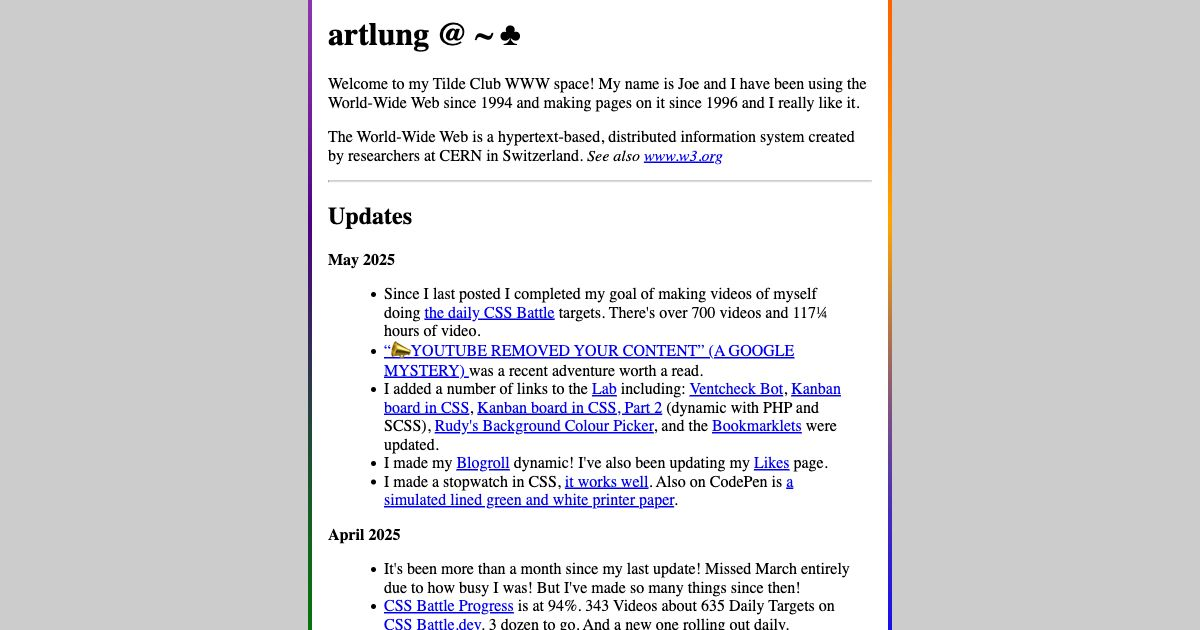
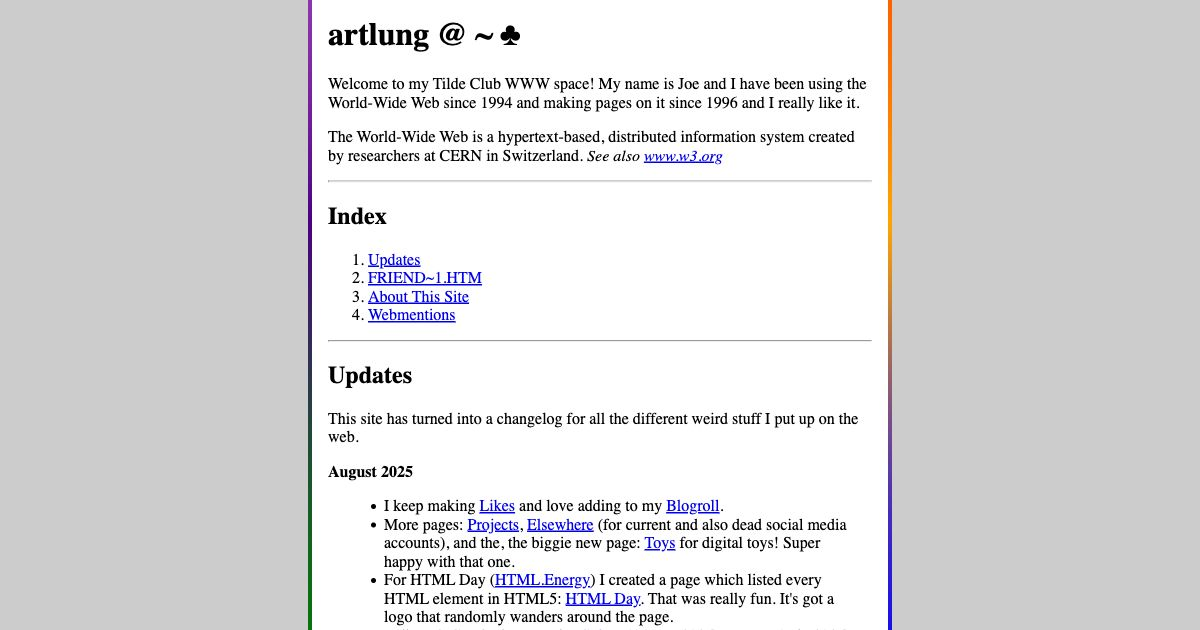
AUGUST CHANGES - new friends section and more updates

Changed region(s): [[0.2775, 0.3921, 0.7092, 1.0], [0.2775, 0.3317, 0.3392, 0.3619]]

diff --git a/public_html/tilde.css b/public_html/tilde.css
@@ -1,1 +1,1 @@
-html{height:100%}body{max-width:72ch;box-sizing:border-box;margin:0 auto;padding:2ch;background:linear-gradient(#fff, #fff) 50% 50%/72ch 200% repeat-y,conic-gradient(from var(--from), red, orange, blue, green, indigo, violet) 50% 50%/73ch 100vh no-repeat #ccc;background-attachment:fixed;min-height:100%;transition:background .5s ease-in-out;animation:swirl 6s infinite;--from: 45deg}body>p:last-child{padding:0 0 3ch 0}dt{font-weight:bold}dd{margin:1em}form{margin:0;display:grid;gap:1rem;padding:1rem;background:#ffffe0;border:2px solid #ff0;font-family:sans-serif}form *{margin:0;padding:0;display:block;width:100%;font-family:sans-serif;font-size:1rem}form input{padding:.5rem}@keyframes swirl{0%{--from: 0deg}50%{--from: 350deg}100%{--from: 0deg}}h2:has(+dl+form){border:3px double orange;background:bisque;padding:.1rem .5rem;line-height:1;color:darkred;font-family:sans-serif}dl:has(+form){display:grid;font-family:sans-serif;gap:.33rem;margin:0 0 1rem .75rem}dl:has(+form) dt{font-weight:normal;color:darkred}dl:has(+form) dd{margin:0 0 0 1rem;display:flex;gap:1rem;justify-content:start;align-items:center}dl:has(+form) dd img{opacity:.9;width:1.5rem;aspect-ratio:1;border-radius:50%}a:has(img[ismap]){display:block;width:min-content}a:has(img[ismap]) img{display:block;width:549px;height:60px}
+html{height:100%}body{max-width:72ch;box-sizing:border-box;margin:0 auto;padding:2ch;background:linear-gradient(#fff, #fff) 50% 50%/72ch 200% repeat-y,conic-gradient(from var(--from), red, orange, blue, green, indigo, violet) 50% 50%/73ch 100vh no-repeat #ccc;background-attachment:fixed;min-height:100%;transition:background .5s ease-in-out;animation:swirl 6s infinite;--from: 45deg}body>p:last-child{padding:0 0 3ch 0}dt{font-weight:bold}dd{margin:1em}form[method=post]{margin:0;display:grid;gap:1rem;padding:1rem;background:#ffffe0;border:2px solid #ff0;font-family:sans-serif}form[method=post] *{margin:0;padding:0;display:block;width:100%;font-family:sans-serif;font-size:1rem}form[method=post] input{padding:.5rem}form:has(h2) h2>b{color:color-mix(in srgb, currentColor 80%, yellowgreen);background:#9acd32;aspect-ratio:1;border-radius:50%;display:inline-flex;justify-content:center;gap:2px;align-items:center;padding:2px;font-weight:normal;font-size:1.5rem;position:relative;border:1px solid}form:has(h2) h2>i{font-size:1rem;font-weight:normal;font-family:system-ui,sans-serif;display:inline-block;max-height:0;overflow:hidden;transition:max-height .3s linear}form:has(h2) form:has(h2) h2>i{padding:.5lh;background:#9acd32;line-height:1.4rem;margin:1lh 0}form:has(h2):has(input:checked) h2>i{margin:1lh 0 0;max-height:10lh;border:1px solid;background:#9acd32;padding:1lh}form:has(h2):has(input:checked) h2>b::after{content:"";position:absolute;display:block;height:1lh;overflow:hidden;background:#9acd32;bottom:-1lh;border-inline:1px solid;width:.2rem}@keyframes swirl{0%{--from: 0deg}50%{--from: 350deg}100%{--from: 0deg}}h2:has(+dl+form){border:3px double orange;background:bisque;padding:.1rem .5rem;line-height:1;color:darkred;font-family:sans-serif}dl:has(+form){display:grid;font-family:sans-serif;gap:.33rem;margin:0 0 1rem .75rem}dl:has(+form) dt{font-weight:normal;color:darkred}dl:has(+form) dd{margin:0 0 0 1rem;display:flex;gap:1rem;justify-content:start;align-items:center}dl:has(+form) dd img{opacity:.9;width:1.5rem;aspect-ratio:1;border-radius:50%}a:has(img[ismap]){display:block;width:min-content}a:has(img[ismap]) img{display:block;width:549px;height:60px}

diff --git a/public_html/tilde.scss b/public_html/tilde.scss
@@ -28,7 +28,7 @@ dd {
 }
 
 
-form {
+form[method="post"] {
   margin: 0;
   display: grid;
   gap: 1rem;
@@ -47,6 +47,82 @@ form {
   input {
     padding: 0.5rem;
   }
+}
+form:has(h2) {
+  h2 {
+    > samp {
+
+    }
+    > b {
+      color: color-mix(in srgb, currentColor 80%, yellowgreen);
+      background: yellowgreen;
+      aspect-ratio: 1;
+      border-radius: 50%;
+      display: inline-flex;
+      justify-content: center;
+      gap: 2px;
+      align-items: center;
+      padding: 2px;
+      font-weight: normal;
+      font-size: 1.5rem;
+      position: relative;
+      border: 1px solid;
+    }
+    > i {
+      font-size: 1rem;
+      font-weight: normal;
+      font-family: system-ui, sans-serif;
+      display: inline-block;
+      max-height:0;
+      overflow:hidden;
+      transition:max-height 0.3s linear;
+    }
+  }
+
+
+
+  /* tilde.css | https://tilde.club/~artlung/tilde.css?1755789401 */
+
+  form:has(h2) h2 > i {
+    padding: 0.5lh;
+    background: yellowgreen;
+    line-height: 1.4rem;
+    margin: 1lh 0;
+  }
+
+
+
+
+
+
+
+
+
+  &:has(input:checked) {
+    h2 {
+      > i {
+        margin: 1lh 0 0;
+        max-height: 10lh;
+        border: 1px solid;
+        background: yellowgreen;
+        padding: 1lh;
+      }
+      > b {
+        &::after {
+          content: '';
+          position: absolute;
+          display: block;
+          height: 1lh;
+          overflow: hidden;
+          background: yellowgreen;
+          bottom: -1lh;
+          border-inline: 1px solid;
+          width: 0.2rem;
+        }
+      }
+    }
+  }
+
 }
 
 

diff --git a/public_html/index.php b/public_html/index.php
@@ -21,7 +21,47 @@
 www.w3.org</A></I></P>
 
 <HR>
+
+<h2>Index</h2>
+
+<A NAME="INDEX"></A>
+<OL>
+<?php
+    $text_fragments = [
+      ['Webmentions', 'Updates'],
+       ['little web pages.', 'FRIEND~1.HTM'],
+        ['THOMAS','About This Site'],
+        ['slash links!', 'Webmentions'],
+    ];
+
+    foreach($text_fragments as $text_fragment) {
+        // #:~:text=
+        // first textPrefix is "Webmentions
+        $textPrefix = $text_fragment[0];
+        $textFragment = $text_fragment[1];
+
+        printf(
+            '<LI><A HREF="https://tilde.club/~artlung/#:~:text=%s,%s">%s</A></LI>',
+                rawurlencode($textPrefix . '-'),
+            rawurlencode($textFragment),
+            $textFragment
+        );
+        $textPrefix = $textFragment;
+    }
+
+
+
+?>
+</OL>
+
+
+<HR>
 <H2>Updates</H2>
+
+<P>
+    This site has turned into a changelog for all the different weird stuff I put up on the web.
+</P>
+
 <DL>
     <DT>August 2025</DT>
     <DD>
@@ -45,6 +85,17 @@ More pages: <a href="https://artlung.com/projects/">Projects</a>, <A href="https
                         Totems
                     </a> (July 2025).
 
+            </LI>
+            <LI>
+                I made a second video reel hosted on my own site: the <a href="https://artlung.com/videos/reels/ti994a-iwc">IndieWeb Logo as a TI-BASIC</a> graphic. The first video
+                was <a href="https://artlung.com/videos/reels/pelican">When I met a pelican in the water</a>.
+            </LI>
+            <LI>
+                I am collecting examples of the markup used to make webcomics accessibile. <a href="https://lab.artlung.com/comics-a11y/">Comics Accessibilty</a>. Provide examples! Give feedback!
+            </LI>
+            <LI>
+                I discovered last night that <A HREF="https://rossabaker.com">Ross</A> has a Tildeverse page as well! His validates to the HTML 4.01 DOCTYPE! I love it!
+                <A HREF="https://tilde.town/~rossabaker/">Ross's Tilde Town</A>
             </LI>
         </UL>
 
@@ -306,6 +357,35 @@ It's Comic-Con month. It ought to be fun! Rock on people!
     <DT>2014:
     <DD>It's fun to make little web pages.
 </DL>
+
+<HR>
+
+<FORM>
+<h2>
+    <SAMP>FRIEND~1.HTM</SAMP>
+    <B>(<INPUT TYPE="CHECKBOX">?)</B>
+    <I>If I had a list of friends in a file called <CODE>Friendship.html</CODE> and copied it to, say, Windows 3.1 -- it would render that filename as <SAMP>FRIEND~1.HTM</SAMP><BR><BR>
+
+        If you and I have had a conversation, please hit me with a message and I will add a link to your <A href="https://indieweb.org/tilde">Tildeverse</A> page! If I don't know you? Get to know me. <CODE>^_^</CODE>
+    </I>
+</h2>
+</FORM>
+
+<UL>
+    <LI>
+    <a HREF="https://tilde.town/~rossabaker/">ROSS</a>
+    </LI>
+    <LI>
+        <A HREF="https://tilde.club/~gRegorLove/">GREGOR</A>
+    </LI>
+    <LI>
+        <A HREF="https://tilde.club/~vanderwal/">THOMAS</A>
+    </LI>
+    <LI>
+        <A HREF="https://tilde.club/~mattl/">MATT</A>
+    </LI>
+</UL>
+
 
 <HR>
 
